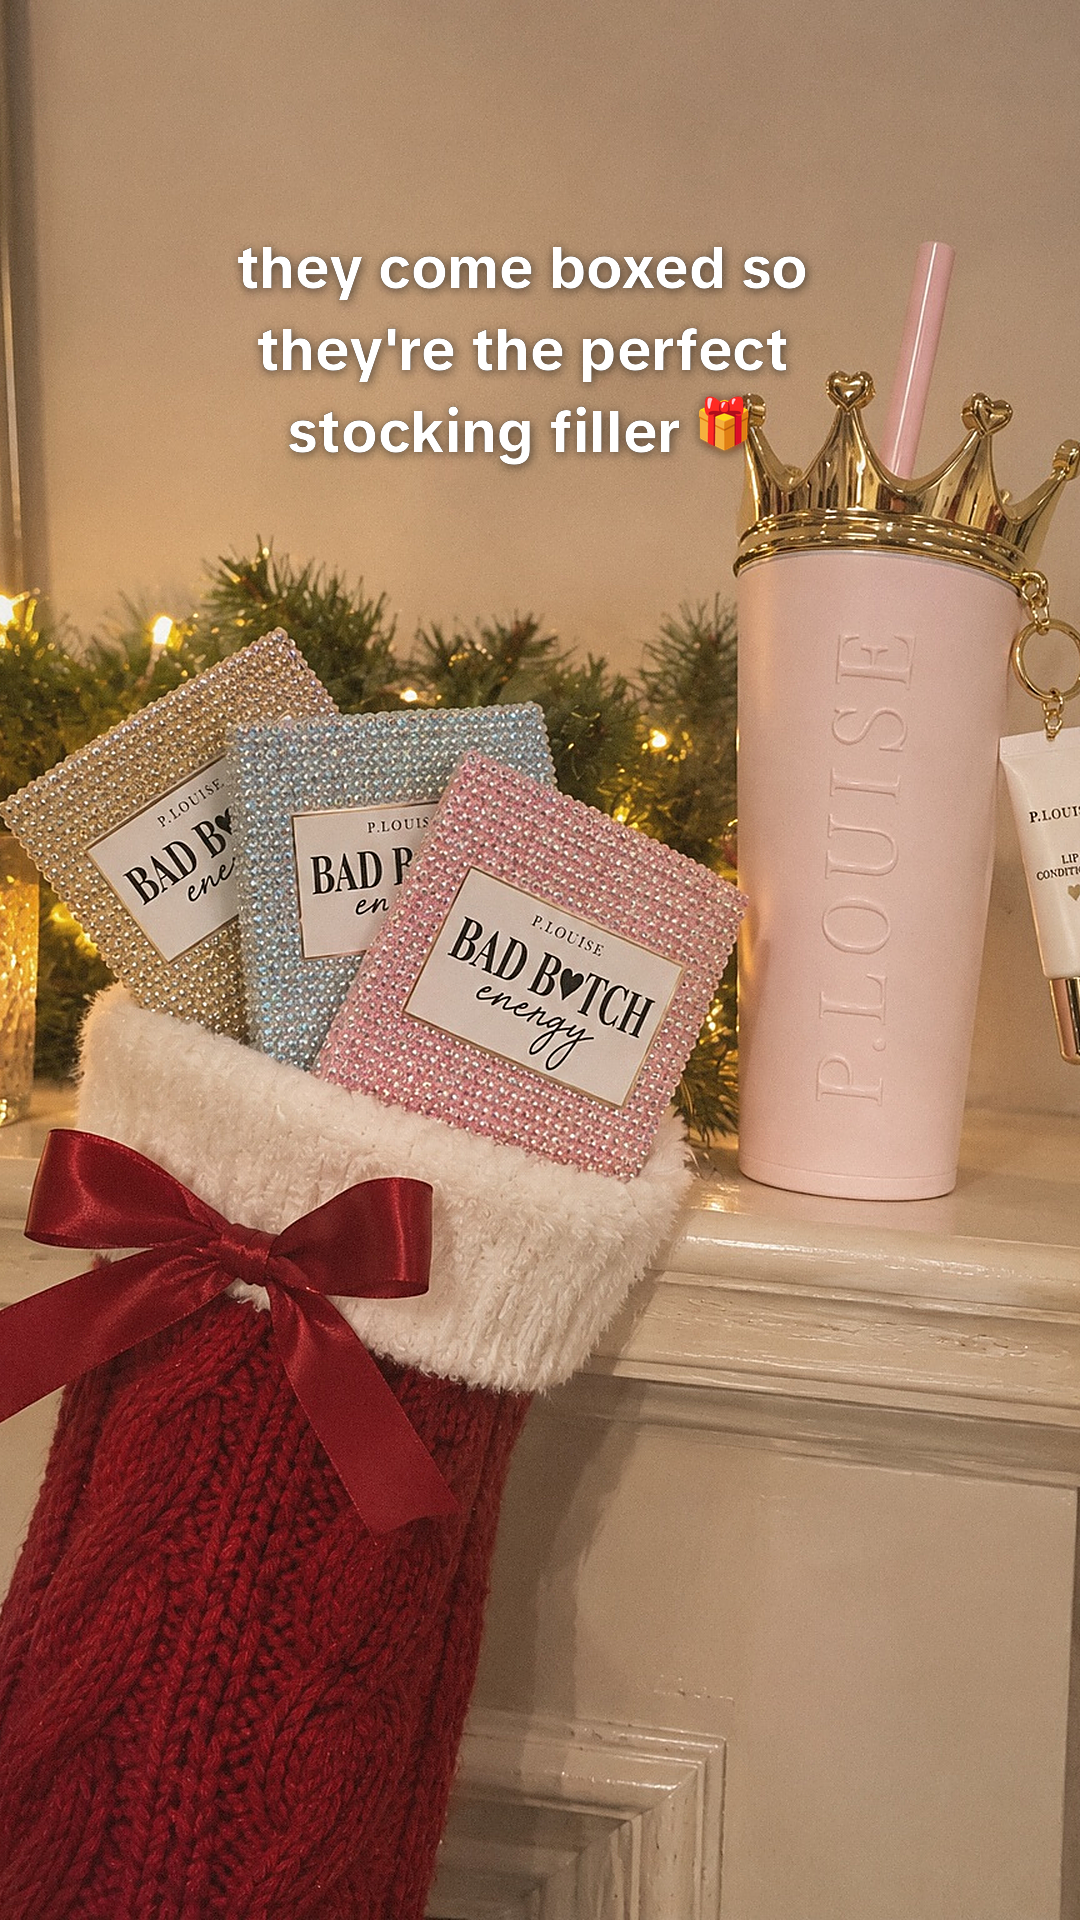
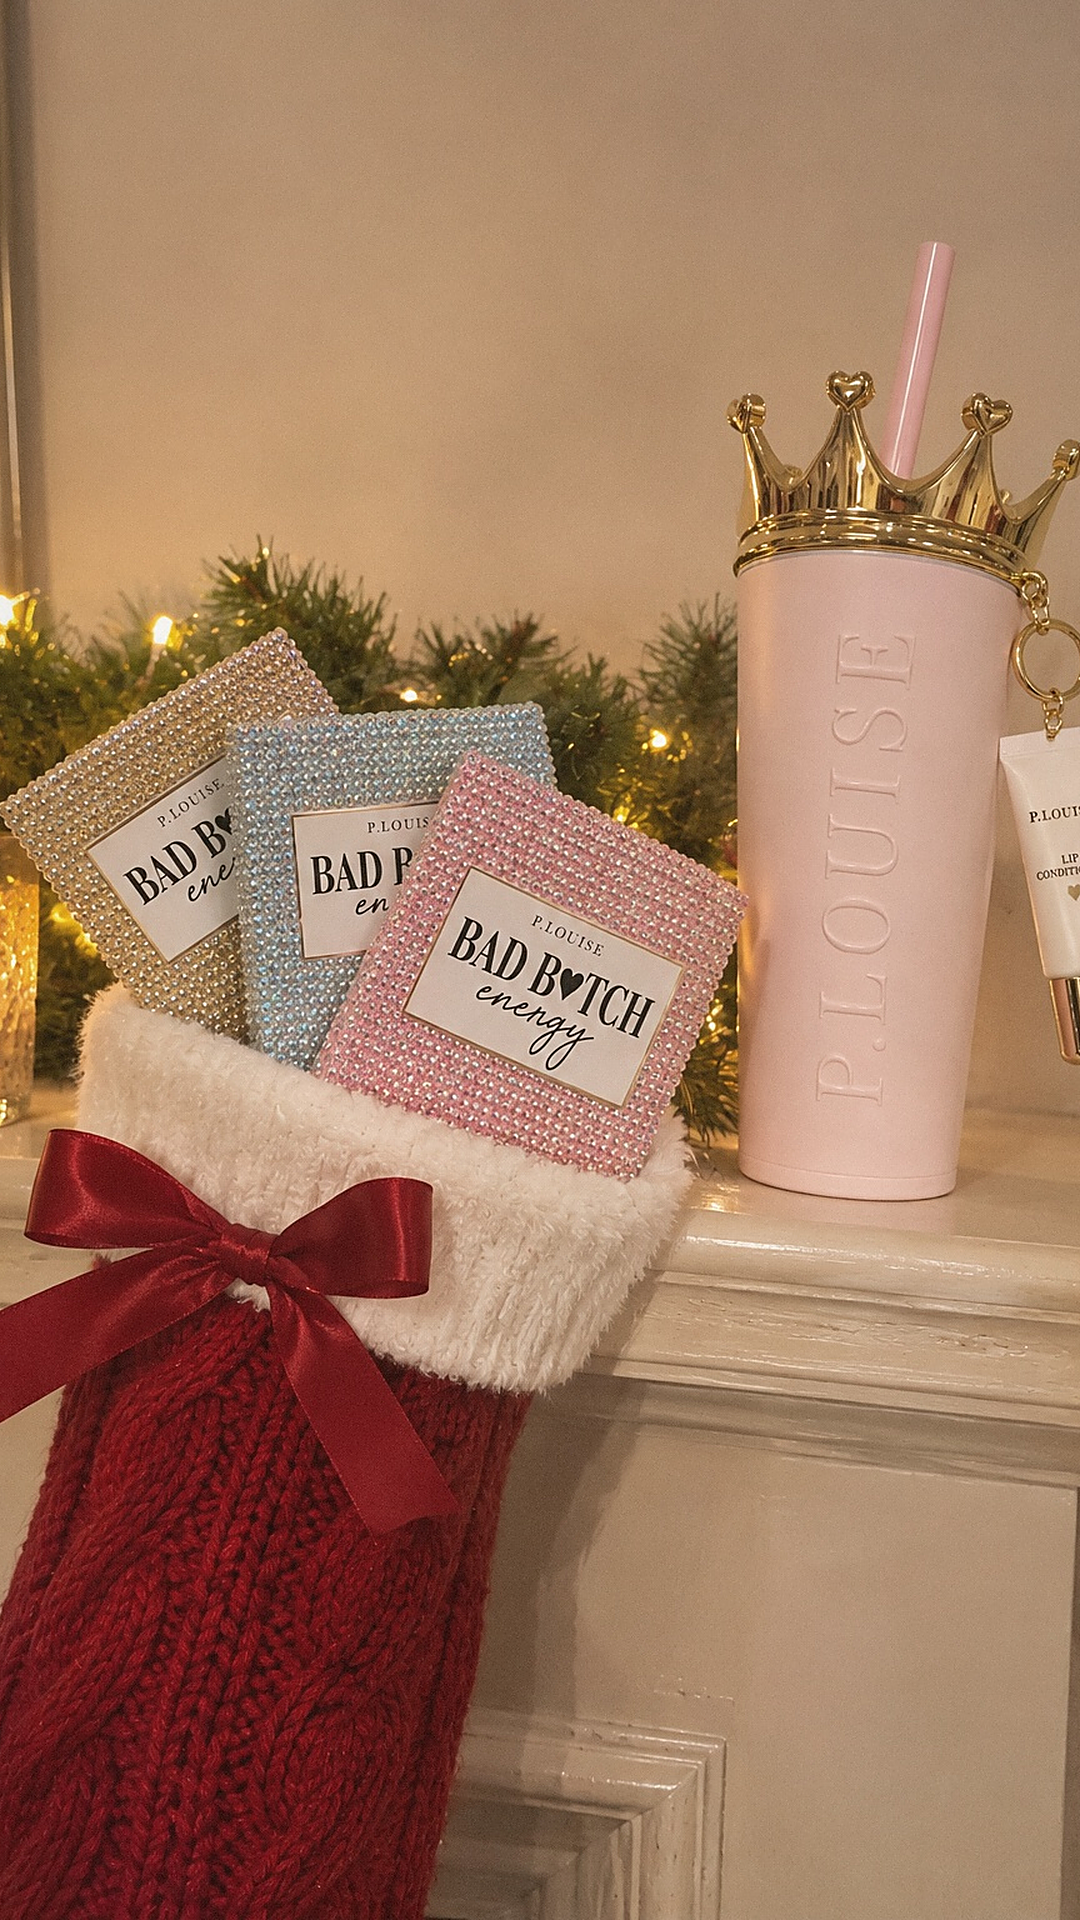
Text is added in the TikTok app: slides are clean photos by default and post.txt lists the text for each slide
Claude-Session: https://claude.ai/code/session_01Y5GtWaWrAuZEV1WuXCYGFS

Changed region(s): [[0.2139, 0.125, 0.7639, 0.25]]

diff --git a/skills/viral-slideshow-factory/scripts/make_slides.py b/skills/viral-slideshow-factory/scripts/make_slides.py
@@ -36,6 +36,9 @@ def main():
     folder = os.path.abspath(sys.argv[1])
     spec = json.load(open(os.path.join(folder, "slides.json")))
     slides = spec["slides"]
+    # The user's choice (10 Nov): they add the text in the TikTok app, so by default the slides are clean photos
+    # and the words go in post.txt (finish.py). Set "text_in_app": false to burn the text onto the images.
+    in_app = spec.get("text_in_app", True)
     missing = [i + 1 for i, s in enumerate(slides) if not str(s.get("text", "")).strip() and not s.get("labels") and not s.get("no_text")]
     if missing:
         sys.exit(f"ERROR: slides {missing} have no text. Every slide needs on-screen text.")
@@ -53,12 +56,12 @@ def main():
             tmp = os.path.join(folder, f".phone-{i}.png")
             phoneify(Image.open(src), s.get("phone_strength", 0.85), seed=i).save(tmp)
             src = tmp
-        cmd = [sys.executable, overlay, "--in", src, "--out", out, "--text", s.get("text", ""),
+        cmd = [sys.executable, overlay, "--in", src, "--out", out, "--text", "" if in_app else s.get("text", ""),
                "--position", s.get("position", "top"), "--style", s.get("style", spec.get("style", "classic")),
                "--color", s.get("color", spec.get("color", "white")), "--width", str(s.get("width", spec.get("width", 0.62))),
                "--size", str(s.get("size", 60)),] + (["--weight", str(s.get("weight", spec.get("weight")))] if s.get("weight", spec.get("weight")) else []) + (["--font", os.path.join(os.path.dirname(os.path.dirname(os.path.abspath(__file__))), "fonts", s["font"])] if s.get("font") else []) + ["--fit", s.get("fit", "crop"), "--align", s.get("align", "center"), "--x", str(s.get("x", 0.08)), "--bg", s.get("bg", "#ffffff")] + (["--y", str(s["y"])] if s.get("y") is not None else [])
         subprocess.run(cmd, check=True, stdout=subprocess.DEVNULL)
-        for e in s.get("extra", []):
+        for e in ([] if in_app else s.get("extra", [])):
             # Extra text blocks on the same slide (originals often have a hook up top and a small CTA lower down).
             c2 = [sys.executable, overlay, "--in", out, "--out", out, "--text", e["text"], "--style", e.get("style", "classic"),
                   "--color", e.get("color", "white"), "--size", str(e.get("size", 44)), "--width", str(e.get("width", 0.8)),
@@ -66,7 +69,7 @@ def main():
             if e.get("weight"): c2 += ["--weight", str(e["weight"])]
             if e.get("font"): c2 += ["--font", os.path.join(os.path.dirname(os.path.dirname(os.path.abspath(__file__))), "fonts", e["font"])]
             subprocess.run(c2, check=True, stdout=subprocess.DEVNULL)
-        if s.get("labels"):
+        if s.get("labels") and not in_app:
             draw_labels(out, s["labels"])
         outs.append(out)
     thumbs = [Image.open(p).resize((360, 640)) for p in outs]

diff --git a/skills/viral-slideshow-factory/scripts/finish.py b/skills/viral-slideshow-factory/scripts/finish.py
@@ -81,7 +81,23 @@ def check(post, slides):
             if m:
                 warns.append(f"{where}: urgency '{m.group(0)}' — only keep if it's true on the listing right now")
 
-def write_post_txt(folder, post, n_slides):
+def text_guide(slides):
+    """The words for each slide, for the user to type in the TikTok editor (text_in_app, the default)."""
+    spec = slides or {}
+    if not spec.get("text_in_app", True) or not spec.get("slides"):
+        return ""
+    out = ["TEXT TO ADD IN TIKTOK (one text box per slide; the photos have no text on them)"]
+    for i, s in enumerate(spec["slides"], 1):
+        t = " ".join([str(s.get("text", ""))] + [str(e.get("text", "")) for e in s.get("extra", [])]).strip()
+        style = s.get("style", spec.get("style", "classic"))
+        where = {"top": "near the top", "middle": "in the middle", "bottom": "near the bottom"}.get(s.get("position", "top"), "near the top")
+        how = "white text with a background (the 'A' box style)" if style == "box" else "plain white text"
+        if s.get("color", spec.get("color")) == "yellow":
+            how = "yellow text"
+        out.append(f"Slide {i}: {t}\n   ({how}, {where}, keep it off the product and faces)")
+    return "\n".join(out) + "\n"
+
+def write_post_txt(folder, post, n_slides, slides=None):
     p = post.get("product", {})
     sym = SYM.get(str(p.get("currency", "")).upper(), "")
     m = lambda v: f"{float(v):.2f}" if isinstance(v, (int, float)) else str(v)
@@ -95,6 +111,7 @@ def write_post_txt(folder, post, n_slides):
         + (f"\nCommission per sale: {sym}{float(p['commission_per_sale']):.2f}" if p.get("commission_per_sale") else "")
         + "\nRe-check the price before posting if it's been more than a day.\n",
         f"SLIDES\nPost slide-1.png to slide-{n_slides}.png in order.\n",
+        text_guide(slides),
         "BEFORE YOU POST\n- Switch on the 'AI-generated content' label.\n- Add the product link above.\n- Pick the sound above (or a similar trending one).\n",
         f"SOURCE (for your reference, don't post)\nFormat: {get(post, 'source.format') or ''}\nInspired by: {get(post, 'source.url') or 'your own idea'}"
         + (f" ({get(post, 'source.creator')}, {get(post, 'source.views')} views, {get(post, 'source.gmv')} GMV)" if get(post, "source.creator") else "") + "\n",
@@ -161,7 +178,7 @@ def main():
     elif slides.get("slides") and len(finished) != len(slides["slides"]):
         warns.append(f"{len(finished)} finished slides but slides.json lists {len(slides['slides'])}")
     check(post, slides)
-    write_post_txt(folder, post, len(finished))
+    write_post_txt(folder, post, len(finished), slides)
     comp = comparison(folder)
     for w in warns:
         print("WARN  " + w)

diff --git a/skills/viral-slideshow-factory/SKILL.md b/skills/viral-slideshow-factory/SKILL.md
@@ -179,7 +179,7 @@ node $S/chatgpt_image.js --prompt-file _build/slide-1.prompt.txt --ref _build/pr
 
 ## 6. Add the text
 
-No slide ships without on-screen text. Write `_build/slides.json`:
+**The user adds the text in the TikTok app (their choice, 10 Nov).** By default the slides are clean photos with no words on them, and `finish.py` writes the words for every slide into `post.txt` under "TEXT TO ADD IN TIKTOK", with the style (plain white or the box style) and where to put it. Still write `slides.json` with the text, position and style for every slide exactly as below: it is the text plan. Only set `"text_in_app": false` when the user asks for the text burned onto the images. Tell the user the text for each slide in the final reply too, ready to copy. Every slide still needs its line of text in the plan. Write `_build/slides.json`:
 ```json
 {"style": "classic", "slides": [
   {"image": "raw/slide-1.png", "text": "POV: your hair finally grows", "position": "top", "size": 84},
@@ -187,7 +187,7 @@ No slide ships without on-screen text. Write `_build/slides.json`:
 ]}
 ```
 Run `python3 $S/make_slides.py <slideshow>/_build`, then move the results up: `mv <slideshow>/_build/slide-*.png <slideshow>/_build/preview.png <slideshow>/`.
-Open `preview.png` and check: text on every slide, readable, not covering the product, not cut off. If the text looks off compared with real TikTok text (the creator in the demo flagged this as a common weak spot), fix size, position or style and run it again.
+Open `preview.png` and check the photos (and, if text is burned on, that it's readable and off the product). If the text looks off compared with real TikTok text (the creator in the demo flagged this as a common weak spot), fix size, position or style and run it again.
 
 ## 7. The posting pack
 
